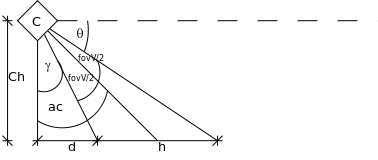
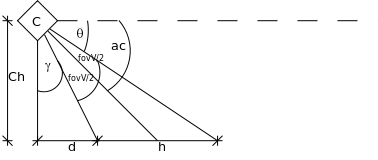
pdated thesis and graphics. Added simulation parameters table

diff --git a/trunk/Tesis/comportamientos/tesis.tex b/trunk/Tesis/comportamientos/tesis.tex
@@ -347,10 +347,65 @@ de una secuencia de im\'agenes es muy complejo y pesado, como se muestra en la s
 \newpage
 \subsection{Resultados obtenidos}
 \label{results}
+En \'esta secci\'on se describen los par\'ametros utilizados en la
+simulaci\'on para la obtenci\'on de resultados sobre los diferentes
+comportamientos. Luego se presentan dichos resultados y se sacan
+conclusiones sobre los mismos.
+\\
+A lo largo del proceso de desarrollo se fueron realizando diferentes simulaciones,
+de las cuales observamos defectos en las implementaciones de los comportamientos
+as\'i como retardo y detalles que se podr\'ian mejorar en algunos de los mismos
+y los fuimos corregiendo. \\
+La arena utilizada en dichas simulaciones se puede ver en la figura \ref{fig:arena_sim}.
+A lo largo de la misma est\'an ubicadas 15 basuras, un \'area de recarga de bater\'ia
+y un \'area de descarga de basura, marcadas por el cilindro naranja. Los valores de
+los par\'ametros utilizados se pueden observar en el cuadro \ref{sim_params}. Los
+\'angulos est\'an expresados en radianes y las distancias est\'an expresadas en metros,
+as\'i como tambi\'en los radios, correcciones y separaciones. La resoluci\'on de la
+c\'amara est\'a expresada en pixeles, la de la grilla en unidades y los tiempos est\'an
+en milisegundos.
+\begin{table}[ht]
+	\begin{center}
+		\begin{tabular}{|c|c|c|c|c|c|c|c|c|}
+			\hline
+			Par\'ametro & Descripci\'on del par\'ametro & Valor \\
+			\hline
+			$P_r(0)$ & Posici\'on Inicial del robot & (-0.295,-0.4) \\
+			$O_r(0)$ & Orientaci\'on Inicial del robot & 0 \\
+			$R_r$ & Radio del robot & 0.026 \\
+			$dbw$ & Distancia entre ruedas & 0.052 \\
+			$c_{dbw}$ & Correcci\'on de la distancia entre ruedas & 1.09217109 \\
+			$R_l$, $R_r$ & Radios de las ruedas & 0.0205 0.0205 \\
+			$c_l$, $c_r$ & Correcciones de los radios de las ruedas & 0.99998702 1.00001297 \\
+			$EncRes$ & Resoluci\'on del encoder & 159.23 \\
+			$Cd$ & Distancia de la c\'amara al centro del robot & 0.0355 \\
+			$Ch$ $C_h$ & Altura de la c\'amara & 0.038 \\
+			$FOV_h$ & Field of view horizontal & 1.1 \\
+			$ac$ & \'Angulo de la c\'amara & -0.5 \\
+			$C_{rw}$, $C_{rh}$ & Resoluci\'on de la c\'amara & 640 x 480 \\
+			$A_w$, $A_h$ & Dimensiones del arena & 2 x 1.2 \\
+			$A_{rw}$, $A_{rh}$ & Resoluci\'on de la grilla & 100 38\\
+			$Fsd$ & Dist. s.de piso del medio al centro del robot & 0.03 \\
+			$Fss$ & Separaci\'on entre sensores de piso & 0.01 \\
+			$Ts$ & Time Step & 32 \\
+			\hline
+		\end{tabular}
+	\end{center}
+	\caption{Par\'ametros utilizados para las simulaciones}
+	\label{sim_params}
+\end{table}
 
 \begin{figure}[htp]
 \begin{center}
-\includegraphics[scale=0.3]{comportamientos/graphics/areaCoveredVsTimeUse.png}
+\includegraphics[scale=0.25]{comportamientos/arenaSim.png}
+\caption{Arena utilizada para las simulaciones}
+\label{fig:arena_sim}
+\end{center}
+\end{figure}
+
+\begin{figure}[htp]
+\begin{center}
+\includegraphics[scale=0.25]{comportamientos/graphics/areaCoveredVsTimeUse.png}
 \caption{\'Area vista y \'Area no vista a lo largo de la simulaci\'on}
 \label{fig:seenArea}
 \end{center}
@@ -366,7 +421,7 @@ de una secuencia de im\'agenes es muy complejo y pesado, como se muestra en la s
 
 \begin{figure}[htp]
 \begin{center}
-\includegraphics[scale=0.3]{comportamientos/graphics/CollectUse.png}
+\includegraphics[scale=0.25]{comportamientos/graphics/CollectUse.png}
 \caption{Progreso del comportamiento \emph{Recolectar Basura}}
 \label{fig:collectEvolution}
 \end{center}
@@ -374,7 +429,7 @@ de una secuencia de im\'agenes es muy complejo y pesado, como se muestra en la s
 
 \begin{figure}[htp]
 \begin{center}
-\includegraphics[scale=0.3]{comportamientos/graphics/AllUse.png}
+\includegraphics[scale=0.25]{comportamientos/graphics/AllUse.png}
 \caption{Evoluci\'on de los comportamientos a lo largo de la simulaci\'on}
 \label{fig:behaviourEvolution}
 \end{center}
@@ -392,7 +447,7 @@ de una secuencia de im\'agenes es muy complejo y pesado, como se muestra en la s
 
 \begin{table}[ht]
 	\begin{center}
-		\begin{tabular}{|c|c|c|c|c|c|c|c|c|}
+		\begin{tabular}{|c|c|c|}
 			\hline
 			Comportamiento & \# total de steps activo & \# veces que se activ\'o \\
 			\hline
@@ -413,7 +468,7 @@ de una secuencia de im\'agenes es muy complejo y pesado, como se muestra en la s
 
 \begin{table}[ht]
 	\begin{center}
-		\begin{tabular}{|c|c|c|c|c|c|c|c|c|}
+		\begin{tabular}{|c|c|c|c|}
 			\hline
 			Comportamiento & Promedio & Desv\'io Est\'andard & \# m\'aximo \\
 			\hline
@@ -474,13 +529,29 @@ de una secuencia de im\'agenes es muy complejo y pesado, como se muestra en la s
 %esp_cub / (e\sp_cub + esp_nocub)
 \begin{table}
 	\begin{center}
-		\begin{tabular}{|c||c|c|c|c|c|c|c|c|c|c|}
+		\begin{tabular}{|c||c|c|}
 		\hline
-			$N^\circ$ muestra & 1 & 2 & 3 & 4 & 5 & 6 & 7 & 8 & 9 & 10 \\
+			$N^\circ$ muestra & (\%) & (\%) Acumulado \\
 		\hline
-			(\%) & 0.246 &  0.258 &  0.081 &  0.167 &  0.044 &  0.011 &  0.017 &  0.003 &  0.038 &  0.130 \\
+			1 & 0.246 & 0.246 \\
 		\hline
-			$\sum$(\%) & 0.246 &  0.505 &  0.586 &  0.754 &  0.798 &  0.809 &  0.827 &  0.830 &  0.869 &  1 \\
+			2 & 0.258 & 0.505 \\
+		\hline
+			3 & 0.081 & 0.586 \\
+		\hline
+			4 & 0.167 & 0.754 \\
+		\hline
+			5 & 0.044 & 0.798 \\
+		\hline
+			6 & 0.011 & 0.809 \\
+		\hline
+			7 & 0.017 & 0.827 \\
+		\hline
+			8 & 0.003 & 0.830 \\
+		\hline
+			9 & 0.038 & 0.869 \\
+		\hline
+			10 & 0.130 & 1 \\
 		\hline
 		\end{tabular}
 	\end{center}

diff --git a/trunk/Tesis/comportamientos/comportamientos.tex b/trunk/Tesis/comportamientos/comportamientos.tex
@@ -96,7 +96,7 @@ por cada paso
     velocidades = calcular_velocidades_de_ruedas(ultimazonavisitada)
     poner_velocidades_en_ruedas(velocidades)
 \end{verbatim}
-Para obtener la zona vista por la c\'amara, necesitamos de la altura $c_h$ a la cual est\'a ubicada
+Para obtener la zona vista por la c\'amara, necesitamos de la altura $C_h$ a la cual est\'a ubicada
 la c\'amara en el robot, el campo de visi\'on (de ahora en adelante \emph{Field of View o FOV})
 horizontal $FOV_h$ o vertical $FOV_v$ y el \'angulo de inclinaci\'on de la c\'amara $ac$. Viendo la figura
 \ref{fig:angleCamera} podemos ver que:
@@ -110,10 +110,10 @@ horizontal $FOV_h$ o vertical $FOV_v$ y el \'angulo de inclinaci\'on de la c\'am
 \end{figure}
 
 \begin{eqnarray}
-ac + \frac{FOV_v}{2} + \theta = \frac{\pi}{2}\\
+ac + \frac{FOV_v}{2} + \gamma = \frac{\pi}{2}\\
 \gamma + FOV_v + \theta = \frac{\pi}{2}\\
-\tan(\gamma) = \frac{d}{c_h}\\
-\tan(\gamma+FOV_v) = \frac{d+h}{c_h}
+\tan(\gamma) = \frac{d}{C_h}\\
+\tan(\gamma+FOV_v) = \frac{d+h}{C_h}
 \end{eqnarray}
 
 %En caso de no disponer del $FOV_v$, el mismo se puede obtener de:
@@ -125,9 +125,9 @@ Organizando las ecuaciones, podemos deducir que:
 \begin{eqnarray}
 \gamma = \frac{\pi}{2} + ac - \frac{FOV_v}{2}\\
 \label{eqn:distance_d}
-d = \tan(\gamma) * c_h \\
+d = \tan(\gamma) * C_h \\
 \label{eqn:distance_dh}
-d+h = \tan(\gamma+FOV_v) * c_h
+d+h = \tan(\gamma+FOV_v) * C_h
 \end{eqnarray}
 
 Por lo que obtenemos el \'angulo hasta el inicio de la im\'agen de la c\'amara $\gamma$ y como consecuencia,
@@ -277,15 +277,15 @@ a la basura como si estuviera sobre el mismo (asumiendo que la coordenada X de l
 basura en la imagen es 0).
 
 Como muestran las figuras \ref{fig:image_coord_conv} y \ref{fig:angleCamera},
-el \'angulo vertical hacia el punto m\'as alto de la imagen $(0,h)$ es 
+el \'angulo vertical hacia el punto m\'as alto de la imagen $(0,C_{rh})$ es 
 $\gamma+FOV_v$ y hacia el m\'as bajo, $(0,0)$, el \'angulo es $\gamma$.
 De las ecuaciones \eqref{eqn:distance_d} y \eqref{eqn:distance_dh} sabemos
-las distancias a los puntos $(0,0)$ (DIST\_MIN) y $(0,h)$ (DIST\_MAX). 
+las distancias a los puntos $(0,0)$ (DIST\_MIN) y $(0,C_{rh})$ (DIST\_MAX). 
 Entonces, para obtener la distancia $dy$ hacia el punto $(0,y)$ basta con
 calcular:
 \begin{eqnarray}
 y_{angle} = FOV_v * \frac{y}{h} \\
-dy = \tan(\gamma + y_{angle}) * c_h \\
+dy = \tan(\gamma + y_{angle}) * C_h \\
 \end{eqnarray}
 
 donde $y_{angle}$ es la proporci\'on de $FOV_v$ hacia $y$.
@@ -406,9 +406,9 @@ se encuentra el cilindro de color verde.
 \\
 Para distinguir si el robot est\'a en una l\'inea o no, utilizamos sensores de piso dispuestos
 como se muestra en la figura \ref{fig:floorSensors}. Los sensores se encuentran a una distancia
-$a$ del centro del robot sobre el eje $Y$ y los de los costados a una distancia $b$ del eje $Y$.
+$Fsd$ del centro del robot sobre el eje $Y$ y los de los costados a una distancia $Fss$ del eje $Y$.
 La distancia del sensor del medio hacia el centro del robot es $a$, mientras que la distancia
-hacia un sensor del costado es $r = \sqrt{a^2 + b^2}$.
+hacia un sensor del costado es $Fsl = \sqrt{Fsd^2 + Fss^2}$.
 
 \begin{figure}[htp]
 \begin{center}
@@ -518,7 +518,7 @@ sobre la l\'inea. Como mostramos en la figura \ref{fig:floorSensorsStates}, en e
 el robot girar\'a de forma tal que llegue un caso parecido al (c) ya posiblemente el sensor del
 medio no estar\'a en la l\'inea. Notar que si el sensor del medio est\'a en
 la l\'inea, entonces el robot no gira, cualquiera sea el estado de los sensores de los costados.
-El \'angulo que debe girar est\'a dado por $\theta = \arctan (\frac{b}{a})$ (Ver figura
+El \'angulo que debe girar est\'a dado por $\theta = \arctan (\frac{Fss}{Fsd})$ (Ver figura
 \ref{fig:floorSensors}) o $-\theta$ seg\'un cual sea el sensor que est\'e sobre la l\'inea.
 
 \begin{figure}[htp]
@@ -534,7 +534,7 @@ El \'angulo que debe girar est\'a dado por $\theta = \arctan (\frac{b}{a})$ (Ver
 
 %% Explicar el porque del recorrido de la distancia - relacionarlo con la figura fig:floorSensors
 Luego del posible giro para lograr que el sensor de piso del medio quede sobre la l\'inea, 
-se recorre una distancia de $a$, en el caso que el robot no haya girado anteriormente, o $r$ en
+se recorre una distancia de $Fsd$, en el caso que el robot no haya girado anteriormente, o $Fsl$ en
 el caso que s\'i lo haya hecho. El motivo de este trayecto es que el centro del robot quede
 sobre la l\'inea, como muestra la figura \ref{fig:positioned}. De \'esta forma, s\'olo queda
 girar nuevamente hacia el \'angulo que se quiera. Si la l\'inea es la izquierda, entonces el
